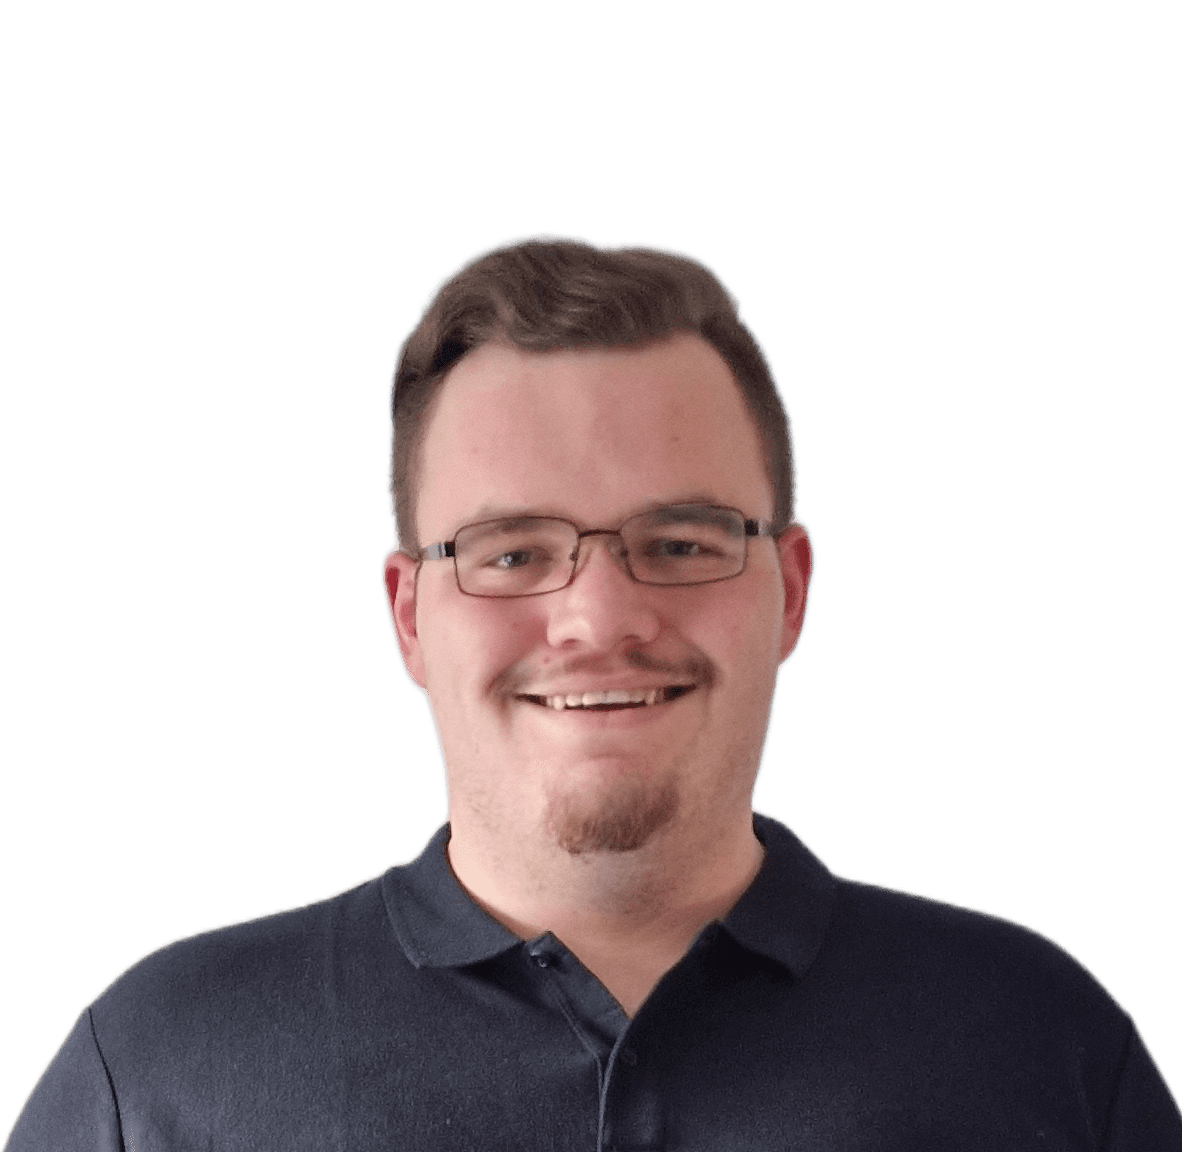
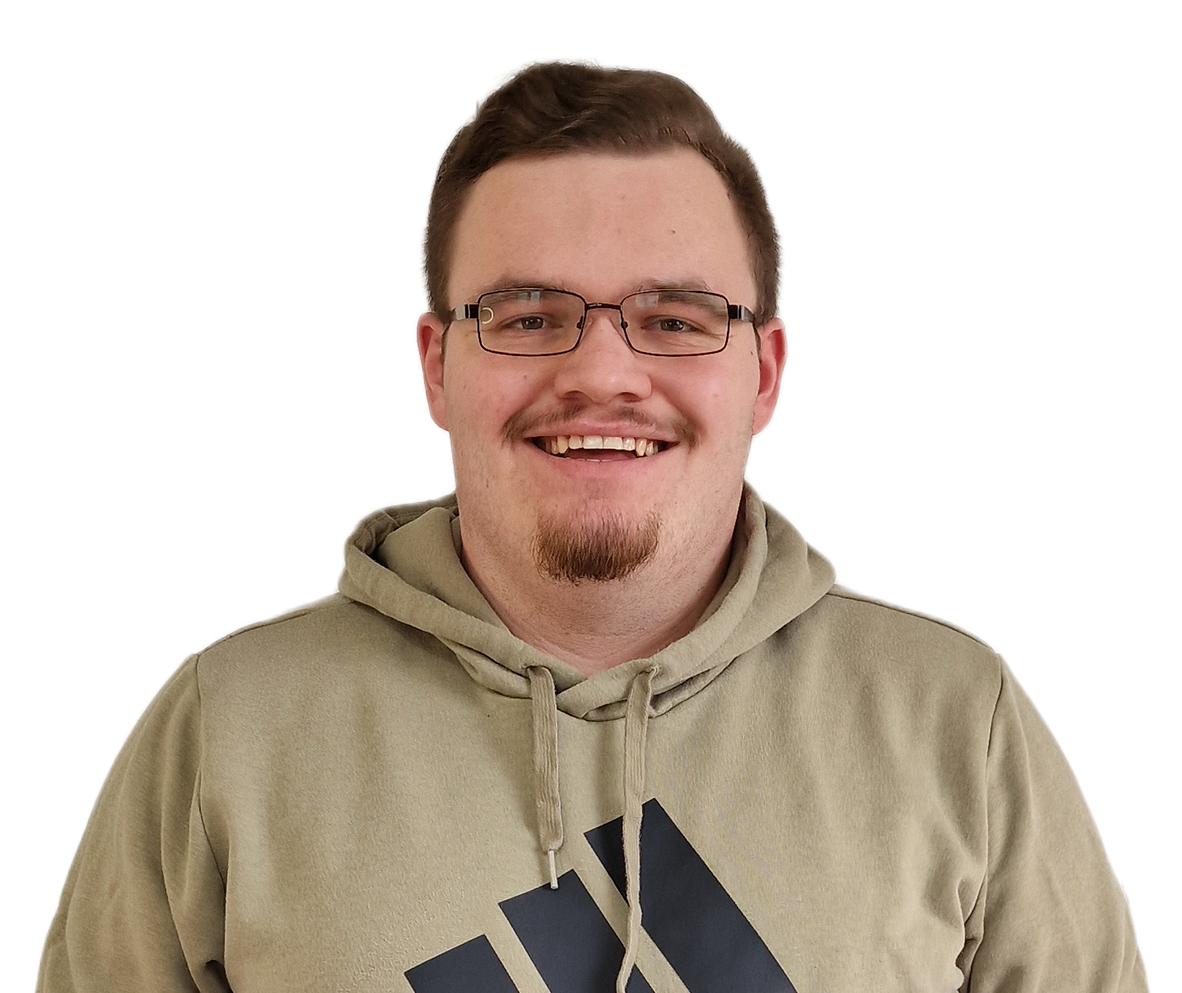
new Img and Object-fit add

diff --git a/src/app/skills/skills.component.html b/src/app/skills/skills.component.html
@@ -1,8 +1,10 @@
 <div class="skillDiv" id="skills">
     <div class="renderSkills">
-        <div *ngFor="let skill of skills; let i = index" class="imgAndSpan" data-aos="zoom-in-down">
-            <img class="skillImg" src="assets/img/Icon/{{skill.img}}">
-            <span class="skillName">{{skill.name}}</span>
+        <div *ngFor="let skill of skills; let i = index" class="imgAndSpan">
+            <div data-aos="zoom-in-down" class="imgAndSpanDiv">
+                <img class="skillImg" src="assets/img/Icon/{{skill.img}}">
+                <span class="skillName">{{skill.name}}</span>
+            </div>
         </div>
     </div>
     <div class="headlineSkillsAndText" data-aos="fade-left">

diff --git a/src/app/skills/skills.component.scss b/src/app/skills/skills.component.scss
@@ -31,10 +31,6 @@
 .imgAndSpan {
     width: 100px;
     height: 100px;
-    display: flex;
-    justify-content: center;
-    align-items: center;
-    flex-direction: column;
     margin-right: 70px;
     margin-bottom: 80px;
     transition: all 125ms ease-in-out;
@@ -47,6 +43,13 @@
         margin-top: 6px;
         text-align: center;
     }
+}
+
+.imgAndSpanDiv {
+    display: flex;
+    justify-content: center;
+    align-items: center;
+    flex-direction: column;
 }
 
 .skillImg {
@@ -139,6 +142,7 @@
 @media (max-width: 1350px) {
     .renderSkills {
         margin-top: 540px;
+        justify-content: center;
     }
 
     .getIntTouchBtn {

diff --git a/src/app/about-me/about-me.component.scss b/src/app/about-me/about-me.component.scss
@@ -141,6 +141,7 @@
     height: 500px;
     border-radius: 100%;
     border: 4px solid #00BEE8;
+    object-fit: cover;
 }
 
 .line7 {
